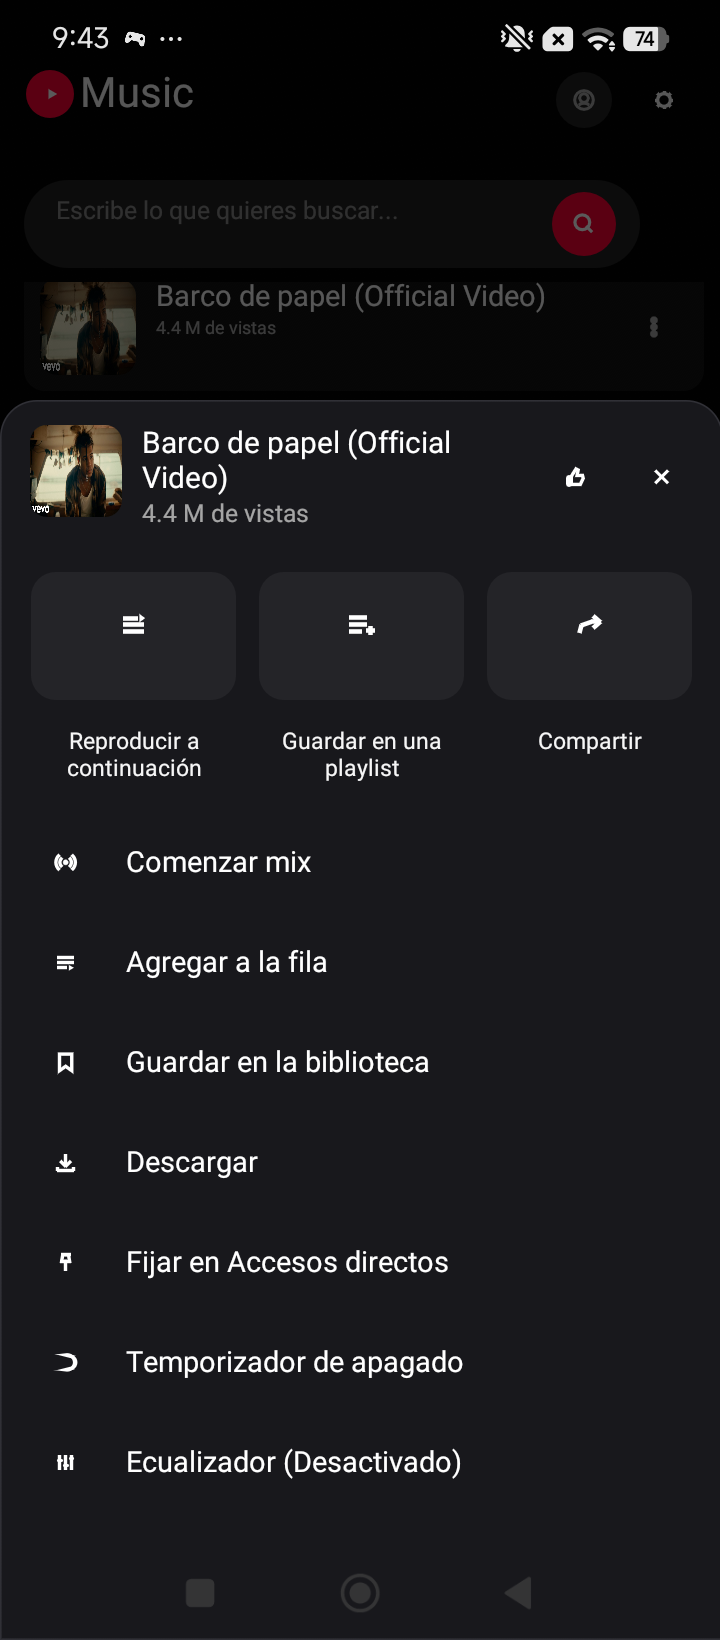
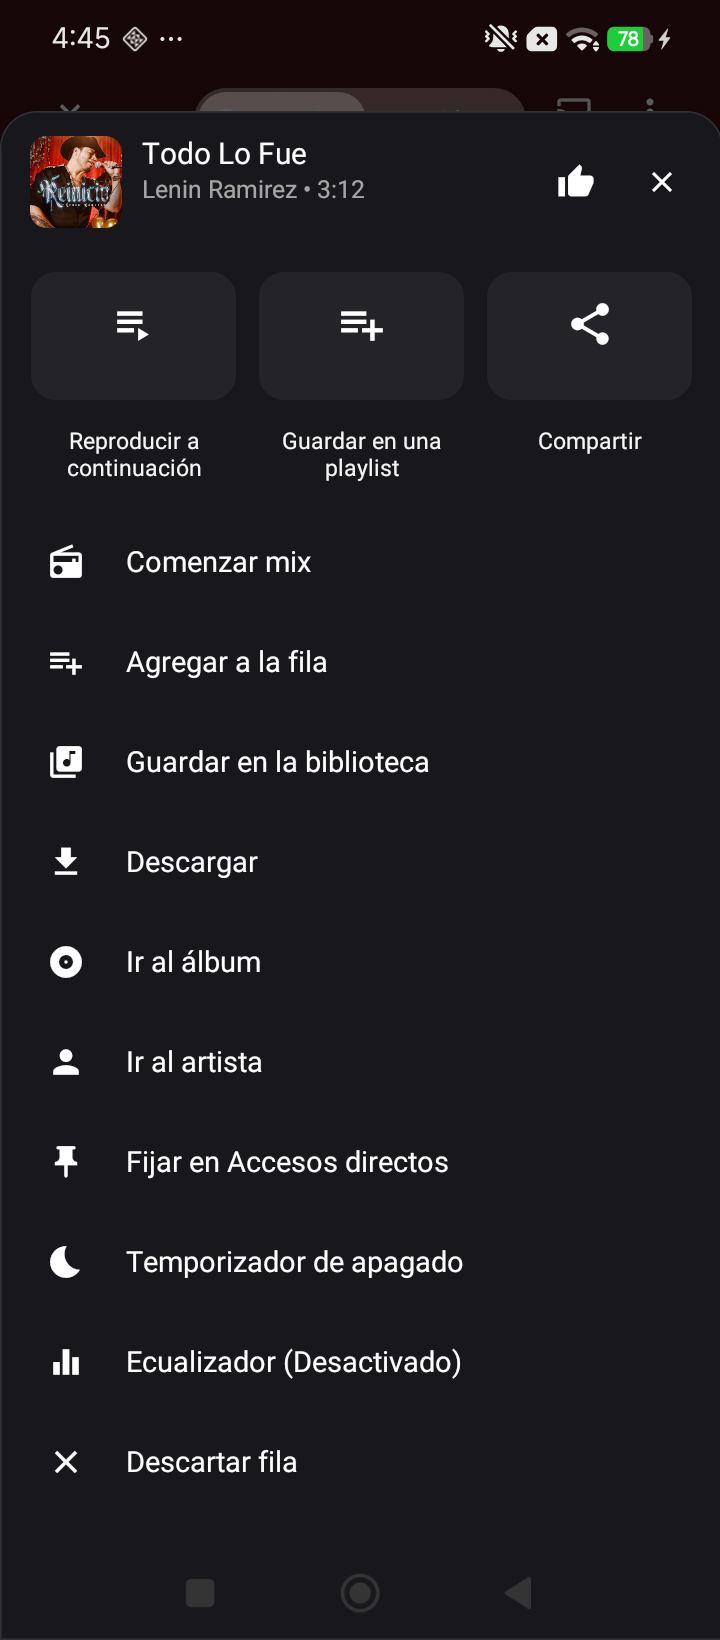
release: v0.6.2 — sleep timer vector pill, persistent player bottom tabs, toast positioning & updated screenshots

diff --git a/crates/yr-app/src/app.rs b/crates/yr-app/src/app.rs
@@ -1865,8 +1865,13 @@ impl YrApp {
             return;
         }
         let max_w = (ctx.screen_rect().width() - 48.0).clamp(180.0, 420.0);
+        let (anchor_align, anchor_offset) = if self.now_playing_open && !self.show_settings {
+            (egui::Align2::CENTER_TOP, Vec2::new(0.0, 82.0))
+        } else {
+            (egui::Align2::CENTER_BOTTOM, Vec2::new(0.0, -148.0))
+        };
         egui::Area::new(egui::Id::new("yr_status_toast"))
-            .anchor(egui::Align2::CENTER_BOTTOM, Vec2::new(0.0, -140.0))
+            .anchor(anchor_align, anchor_offset)
             .order(egui::Order::Foreground)
             .interactable(false)
             .show(ctx, |ui| {
@@ -5653,6 +5658,18 @@ impl YrApp {
         );
         ui.allocate_new_ui(egui::UiBuilder::new().max_rect(inner_rect), |ui| {
             let _top_bar_min_y = ui.cursor().top();
+            let active_until = *self.sleep_timer_until.lock().unwrap();
+            let after_track = self
+                .sleep_after_track
+                .load(std::sync::atomic::Ordering::SeqCst);
+            let timer_text = if let Some(until) = active_until {
+                let rem = until.saturating_duration_since(Instant::now()).as_secs();
+                Some(format!("{}:{:02}", rem / 60, rem % 60))
+            } else if after_track {
+                Some("Fin".to_string())
+            } else {
+                None
+            };
 
             // Top bar: v chevron | [ Canción | Video ] switch | Cast & More ⋮
             ui.horizontal(|ui| {
@@ -5737,17 +5754,6 @@ impl YrApp {
                         });
                     });
 
-                let active_until = *self.sleep_timer_until.lock().unwrap();
-                let after_track = self.sleep_after_track.load(std::sync::atomic::Ordering::SeqCst);
-                let timer_text = if let Some(until) = active_until {
-                    let rem = until.saturating_duration_since(Instant::now()).as_secs();
-                    Some(format!("{}:{:02}", rem / 60, rem % 60))
-                } else if after_track {
-                    Some("Fin".to_string())
-                } else {
-                    None
-                };
-
                 ui.with_layout(Layout::right_to_left(Align::Center), |ui| {
                     ui.spacing_mut().item_spacing.x = 2.0;
                     if icons::icon_button(
@@ -5775,20 +5781,6 @@ impl YrApp {
                     .clicked()
                     {
                         self.set_banner("Transmitiendo a dispositivo...");
-                    }
-                    if let Some(txt) = timer_text {
-                        let timer_btn = egui::Button::new(
-                            RichText::new(format!("🌙 {txt}"))
-                                .size(11.0)
-                                .strong()
-                                .color(Color32::WHITE),
-                        )
-                        .fill(Color32::from_white_alpha(32))
-                        .corner_radius(CornerRadius::same(12))
-                        .min_size(Vec2::new(48.0, 26.0));
-                        if ui.add(timer_btn).clicked() {
-                            self.show_sleep_timer_sheet = true;
-                        }
                     }
                 });
             });
@@ -6651,33 +6643,41 @@ impl YrApp {
                         .downloads
                         .iter()
                         .any(|d| d.track.id == track.id && d.status == DownloadStatus::Completed);
-                    match &snap.status {
+                    let status_badge: Option<(String, Color32)> = match &snap.status {
                         PlaybackStatus::Buffering | PlaybackStatus::Loading => {
-                            ui.add_space(2.0);
-                            ui.label(
-                                RichText::new("Cargando audio...")
-                                    .size(12.0)
-                                    .color(Color32::from_white_alpha(210)),
-                            );
+                            Some(("Cargando audio...".to_string(), Color32::from_white_alpha(210)))
                         }
-                        PlaybackStatus::Error(err) => {
-                            ui.add_space(2.0);
-                            ui.label(RichText::new(err).size(12.0).color(ACCENT_RED));
-                        }
-                        _ => {
-                            let badge = match (is_offline, snap.codec_label.as_deref()) {
-                                (true, Some(c)) => Some((format!("Offline • {c}"), GREEN_OK)),
-                                (true, None) => Some(("Offline".to_string(), GREEN_OK)),
-                                (false, Some(c)) => {
-                                    Some((c.to_string(), Color32::from_white_alpha(155)))
-                                }
-                                (false, None) => None,
-                            };
-                            if let Some((txt, col)) = badge {
-                                ui.add_space(2.0);
+                        PlaybackStatus::Error(err) => Some((err.clone(), ACCENT_RED)),
+                        _ => match (is_offline, snap.codec_label.as_deref()) {
+                            (true, Some(c)) => Some((format!("Offline • {c}"), GREEN_OK)),
+                            (true, None) => Some(("Offline".to_string(), GREEN_OK)),
+                            (false, Some(c)) => {
+                                Some((c.to_string(), Color32::from_white_alpha(155)))
+                            }
+                            (false, None) => None,
+                        },
+                    };
+                    if status_badge.is_some() || timer_text.is_some() {
+                        ui.add_space(3.0);
+                        ui.horizontal(|ui| {
+                            ui.spacing_mut().item_spacing.x = 8.0;
+                            if let Some((txt, col)) = status_badge {
                                 ui.label(RichText::new(txt).size(11.5).color(col));
                             }
-                        }
+                            if let Some(ref t_txt) = timer_text {
+                                if icons::icon_pill_button(
+                                    ui,
+                                    icons::Icon::Moon,
+                                    &format!("Apagado: {t_txt}"),
+                                    Color32::from_white_alpha(32),
+                                    Color32::WHITE,
+                                )
+                                .clicked()
+                                {
+                                    self.show_sleep_timer_sheet = true;
+                                }
+                            }
+                        });
                     }
 
                     ui.add_space(12.0);
@@ -6873,6 +6873,23 @@ impl YrApp {
                                     self.store.data.config.playback_speed = next;
                                     let _ = self.store.save();
                                     self.set_banner(format!("Velocidad: {next}x"));
+                                }
+
+                                ui.add_space(6.0);
+                                let sleep_label = timer_text
+                                    .as_deref()
+                                    .map(|t| format!("Apagado {t}"))
+                                    .unwrap_or_else(|| "Temporizador".to_string());
+                                if icons::icon_pill_button(
+                                    ui,
+                                    icons::Icon::Moon,
+                                    &sleep_label,
+                                    if timer_text.is_some() { ACCENT_RED } else { pill_bg },
+                                    Color32::WHITE,
+                                )
+                                .clicked()
+                                {
+                                    self.show_sleep_timer_sheet = true;
                                 }
                             });
                         });
@@ -7139,89 +7156,68 @@ impl YrApp {
                 }
             });
 
-            let drawer_open = self.show_queue || self.show_lyrics || self.show_related;
-            if !drawer_open {
-                ui.add_space(4.0);
-                ui.vertical_centered(|ui| {
-                    let peek_title = format!("Mix de {}", track.title);
-                    let resp = ui.add(
-                        egui::Label::new(
-                            RichText::new(peek_title)
-                                .size(13.5)
-                                .strong()
-                                .color(Color32::from_white_alpha(225)),
-                        )
-                        .truncate()
-                        .sense(Sense::click()),
-                    );
-                    if resp.clicked() {
-                        self.show_queue = true;
-                    }
-                });
-            } else {
-                ui.add_space(6.0);
-                ui.allocate_ui(Vec2::new(avail_w, 28.0), |ui| {
-                    ui.columns(3, |cols| {
-                        for (col_idx, (active, label, mode)) in [
-                            (self.show_queue, "SIGUIENTE", 0_u8),
-                            (self.show_lyrics, "LETRA", 1_u8),
-                            (self.show_related, "RELACIONADO", 2_u8),
-                        ]
-                        .into_iter()
-                        .enumerate()
-                        {
-                            cols[col_idx].vertical_centered(|ui| {
-                                let resp = ui.add(
-                                    egui::Label::new(
-                                        RichText::new(label)
-                                            .size(12.5)
-                                            .strong()
-                                            .color(if active {
-                                                Color32::WHITE
-                                            } else {
-                                                Color32::from_white_alpha(165)
-                                            }),
-                                    )
-                                    .sense(Sense::click()),
+            ui.add_space(4.0);
+            ui.allocate_ui(Vec2::new(avail_w, 28.0), |ui| {
+                ui.columns(3, |cols| {
+                    for (col_idx, (active, label, mode)) in [
+                        (self.show_queue, "SIGUIENTE", 0_u8),
+                        (self.show_lyrics, "LETRA", 1_u8),
+                        (self.show_related, "RELACIONADO", 2_u8),
+                    ]
+                    .into_iter()
+                    .enumerate()
+                    {
+                        cols[col_idx].vertical_centered(|ui| {
+                            let resp = ui.add(
+                                egui::Label::new(
+                                    RichText::new(label)
+                                        .size(12.5)
+                                        .strong()
+                                        .color(if active {
+                                            Color32::WHITE
+                                        } else {
+                                            Color32::from_white_alpha(165)
+                                        }),
+                                )
+                                .sense(Sense::click()),
+                            );
+                            if active {
+                                let underline = egui::Rect::from_min_max(
+                                    egui::pos2(resp.rect.left(), resp.rect.bottom() + 4.0),
+                                    egui::pos2(resp.rect.right(), resp.rect.bottom() + 6.0),
                                 );
+                                ui.painter().rect_filled(
+                                    underline,
+                                    CornerRadius::same(1),
+                                    Color32::WHITE,
+                                );
+                            }
+                            if resp.clicked() {
                                 if active {
-                                    let underline = egui::Rect::from_min_max(
-                                        egui::pos2(resp.rect.left(), resp.rect.bottom() + 4.0),
-                                        egui::pos2(resp.rect.right(), resp.rect.bottom() + 6.0),
-                                    );
-                                    ui.painter().rect_filled(
-                                        underline,
-                                        CornerRadius::same(1),
-                                        Color32::WHITE,
-                                    );
-                                }
-                                if resp.clicked() {
-                                    if active {
-                                        self.show_queue = false;
-                                        self.show_lyrics = false;
-                                        self.show_related = false;
-                                    } else {
-                                        self.show_queue = mode == 0;
-                                        self.show_lyrics = mode == 1;
-                                        self.show_related = mode == 2;
-                                        if self.show_lyrics {
-                                            self.lyrics_last_scrolled_idx = None;
-                                            if self.lyrics_track_id.as_deref() != Some(&track.id) {
-                                                self.load_lyrics(track.clone(), ctx);
-                                            }
-                                        }
-                                        if self.show_related
-                                            && self.related_track_id.as_deref() != Some(&track.id)
-                                        {
-                                            self.load_related(track.id.clone(), ctx);
+                                    self.show_queue = false;
+                                    self.show_lyrics = false;
+                                    self.show_related = false;
+                                } else {
+                                    self.show_queue = mode == 0;
+                                    self.show_lyrics = mode == 1;
+                                    self.show_related = mode == 2;
+                                    if self.show_lyrics {
+                                        self.lyrics_last_scrolled_idx = None;
+                                        if self.lyrics_track_id.as_deref() != Some(&track.id) {
+                                            self.load_lyrics(track.clone(), ctx);
                                         }
                                     }
+                                    if self.show_related
+                                        && self.related_track_id.as_deref() != Some(&track.id)
+                                    {
+                                        self.load_related(track.id.clone(), ctx);
+                                    }
                                 }
-                            });
-                        }
-                    });
+                            }
+                        });
+                    }
                 });
-            }
+            });
         });
     }
 
@@ -7562,7 +7558,7 @@ impl YrApp {
                     ui.label(RichText::new("Ajusta los mixes de inicio según tu historial de reproducción, canciones favoritas y artistas seguidos.").size(12.0).color(TEXT_SECONDARY));
                 }
                 SettingsCategory::About => {
-                    ui.heading("YR Music v0.6.1");
+                    ui.heading("YR Music v0.6.2");
                     ui.label("Cliente nativo de música 100% en Rust para Android y escritorio.");
                     ui.add_space(6.0);
                     ui.label(RichText::new("Motor de audio Symphonia PCM de ultra-baja latencia con ecualizador paramétrico de 5 bandas en tiempo real, prefetch predictivo en disco y compatibilidad completa con YouTube Music.").size(12.0).color(TEXT_SECONDARY));
@@ -8655,7 +8651,7 @@ impl YrApp {
                         }
                         if menu_row(ui, icons::Icon::Badge, "Insignias").clicked() {
                             self.show_account_modal = false;
-                            self.set_banner("Insignia: Oyente Audiófilo Hi-Fi Rust 🎵");
+                            self.set_banner("Insignia: Oyente Audiófilo Hi-Fi Rust");
                         }
                         if menu_row(ui, icons::Icon::SwitchAccount, "Cambiar de cuenta").clicked() {
                             self.show_account_modal = false;
@@ -8668,7 +8664,7 @@ impl YrApp {
                         }
                         if menu_row(ui, icons::Icon::Help, "Ayuda y comentarios").clicked() {
                             self.show_account_modal = false;
-                            self.set_banner("YR Music v0.6.1 • Pure Rust");
+                            self.set_banner("YR Music v0.6.2 • Pure Rust");
                         }
 
                         ui.add_space(14.0);

diff --git a/README.md b/README.md
@@ -11,13 +11,13 @@
 
 ## ✨ Características Principales
 
-- 🎛 **Ecualizador paramétrico de 5 bandas & Bass Boost:** Motor de audio DSP puro en Rust con filtros biquad de segundo orden en tiempo real (`60 Hz`, `230 Hz`, `910 Hz`, `3.6 kHz`, `14 kHz`), saturación suave anti-clipping (`tanh`), panel centrado sin desbordamiento y preajustes audiófilos (*Plano*, *Graves +*, *Rock*, *Pop*, *Electrónica*, *Vocal*, *Acústico*).
+- 🎛 **Ecualizador paramétrico de 5 bandas, Bass Boost & Normalización de volumen:** Motor de audio DSP puro en Rust con filtros biquad de segundo orden en tiempo real (`60 Hz`, `230 Hz`, `910 Hz`, `3.6 kHz`, `14 kHz`), normalización automática de sonoridad (`Normalización de volumen`), saturación suave anti-clipping (`tanh`), panel centrado sin desbordamiento y preajustes audiófilos (*Plano*, *Graves +*, *Rock*, *Pop*, *Electrónica*, *Vocal*, *Acústico*).
 - 🎬 **Selector interactivo Canción / Video:** Switch dinámico estilo YouTube Music `[ 🎧 Canción | ▶ Video ]` en el reproductor a pantalla completa, superficie panorámica 16:9 con badge 1080p HD y apertura directa de video nativo en Android.
 - 👤 **Apartado de Perfil / Cuenta:** Pantalla completa idéntica a YouTube Music con foto de perfil, identificador de usuario Google (`Antony`, `@IsAntonyVs`), enlace directo a gestión de cuenta Google, accesos a *Tu canal*, *Descargas*, *Historial*, *Tu Recap*, *Insignias*, *Cambiar de cuenta*, *Configuración* y enlaces legales.
 - ⚙ **Configuración categorizada en 10 secciones:**
   - 🧪 **Morphe & Centro familiar:** Experimentos de audio 3D y control familiar.
   - 🔋 **Ahorro de batería y datos móviles:** Streaming reducido a 64 kbps en redes móviles, suspensión de precarga en modo de batería baja y bloqueo opcional de tráfico multimedia fuera de Wi-Fi.
-  - 📥 **Descargas inteligentes (Auto-descarga):** Descarga predictiva y automática de canciones favoritas y mixes recientes para escucha 100% offline con monitor de almacenamiento y borrado de caché.
+  - 📥 **Descargas inteligentes & Límite de caché de streaming:** Descarga predictiva automática para escucha 100% offline, **Límite de caché de streaming** configurable (`128 MB`, `256 MB`, `512 MB`, `1 GB`, `2 GB`) con purga LRU automática en disco, monitor de almacenamiento y borrado manual de caché.
   - 🔒 **Privacidad y recomendaciones:** Modo incógnito, borrado de historiales y personalización algorítmica de listas según cuenta Google.
 - 🎨 **Iconografía oficial Google Material Design:** Todos los iconos del sistema integrados mediante fuente vectorial auténtica de Google Material Icons (58 glifos oficiales pixel-perfect).
 - ⚡ **Prefetch predictivo de audio en disco:** Resuelve y descarga automáticamente el audio de la siguiente canción de la cola en segundo plano, logrando saltos de pista instantáneos con latencia cero de red.
@@ -66,7 +66,7 @@ El proyecto está modularizado en un espacio de trabajo de Cargo limpio y desaco
 
 Puedes descargar el APK precompilado y firmado para Android en la sección de [Releases de GitHub](https://github.com/uamo11/YR/releases).
 
-1. Descarga el archivo [`yr-music-v0.6.1-android.apk`](https://github.com/uamo11/YR/releases/latest/download/yr-music-v0.6.1-android.apk).
+1. Descarga el archivo [`yr-music-v0.6.2-android.apk`](https://github.com/uamo11/YR/releases/latest/download/yr-music-v0.6.2-android.apk).
 2. Habilita la instalación desde orígenes desconocidos si tu dispositivo lo solicita.
 3. Instala y disfruta de música sin publicidad y con la máxima velocidad de respuesta.
 
